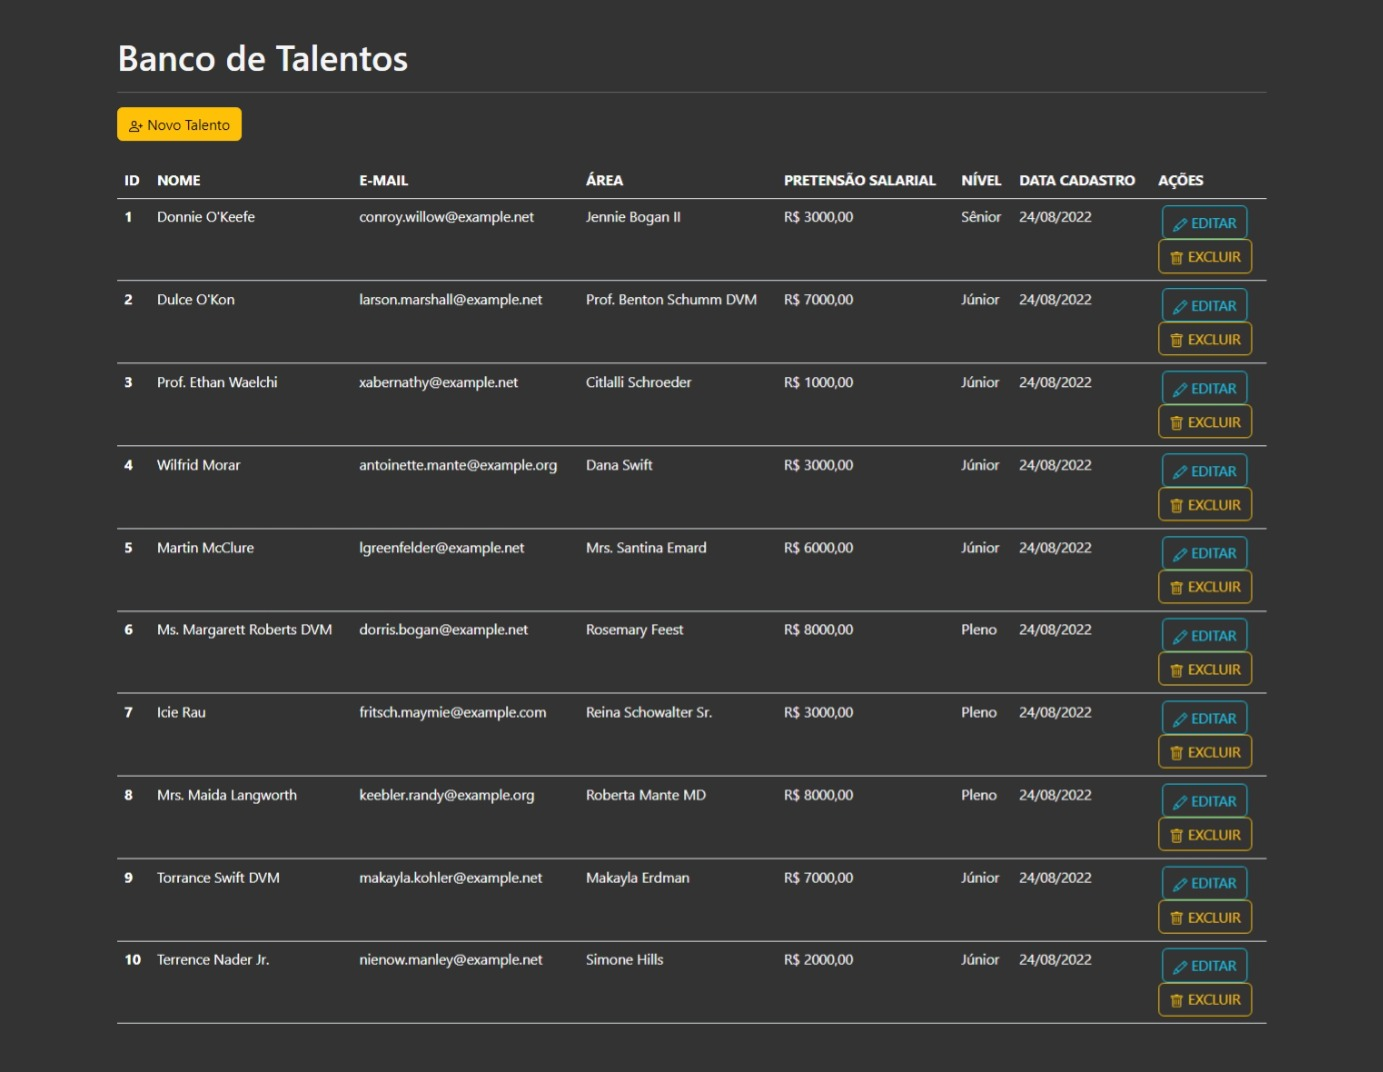
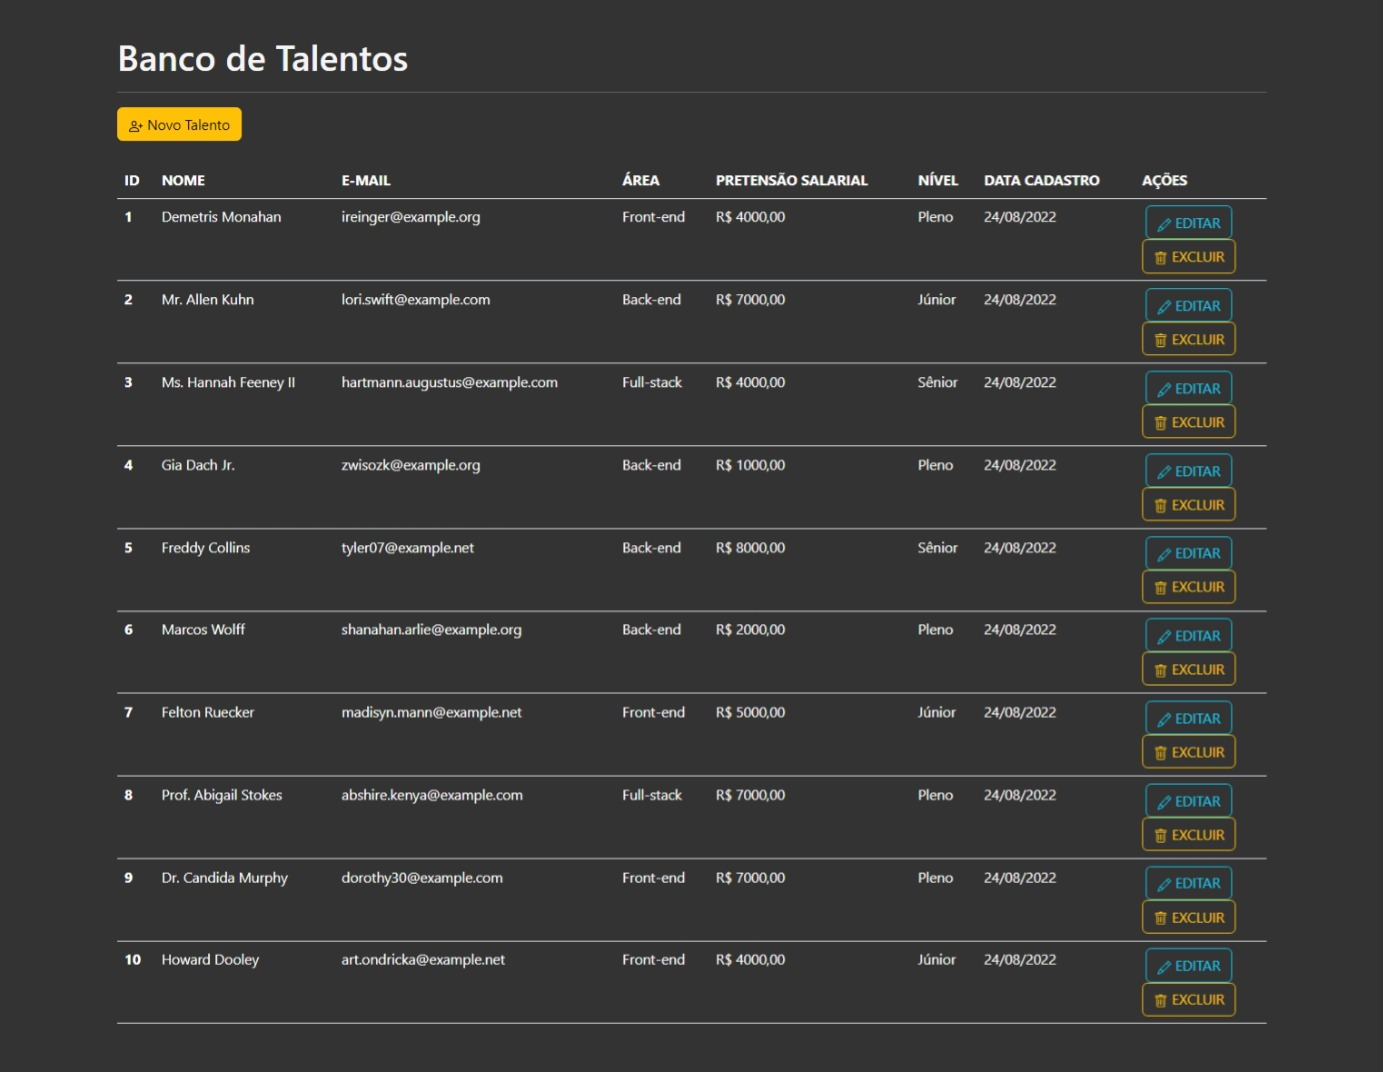
update

diff --git a/meu-app/database/factories/UserFactory.php b/meu-app/database/factories/UserFactory.php
@@ -20,7 +20,7 @@ class UserFactory extends Factory
         return [
             'name' => $this->faker->name(),
             'email' => $this->faker->unique()->safeEmail(),
-            'area' => $this->faker->name(),
+            'area' => $this->faker->randomElement($array = array ('Back-end','Front-end','Full-stack')),
             'pretensao_salarial' => ($this->faker->randomDigitNotZero()*1000),
             'nivel' => $this->faker->randomElement($array = array ('Júnior','Pleno','Sênior')),
             'email_verified_at' => now(),
